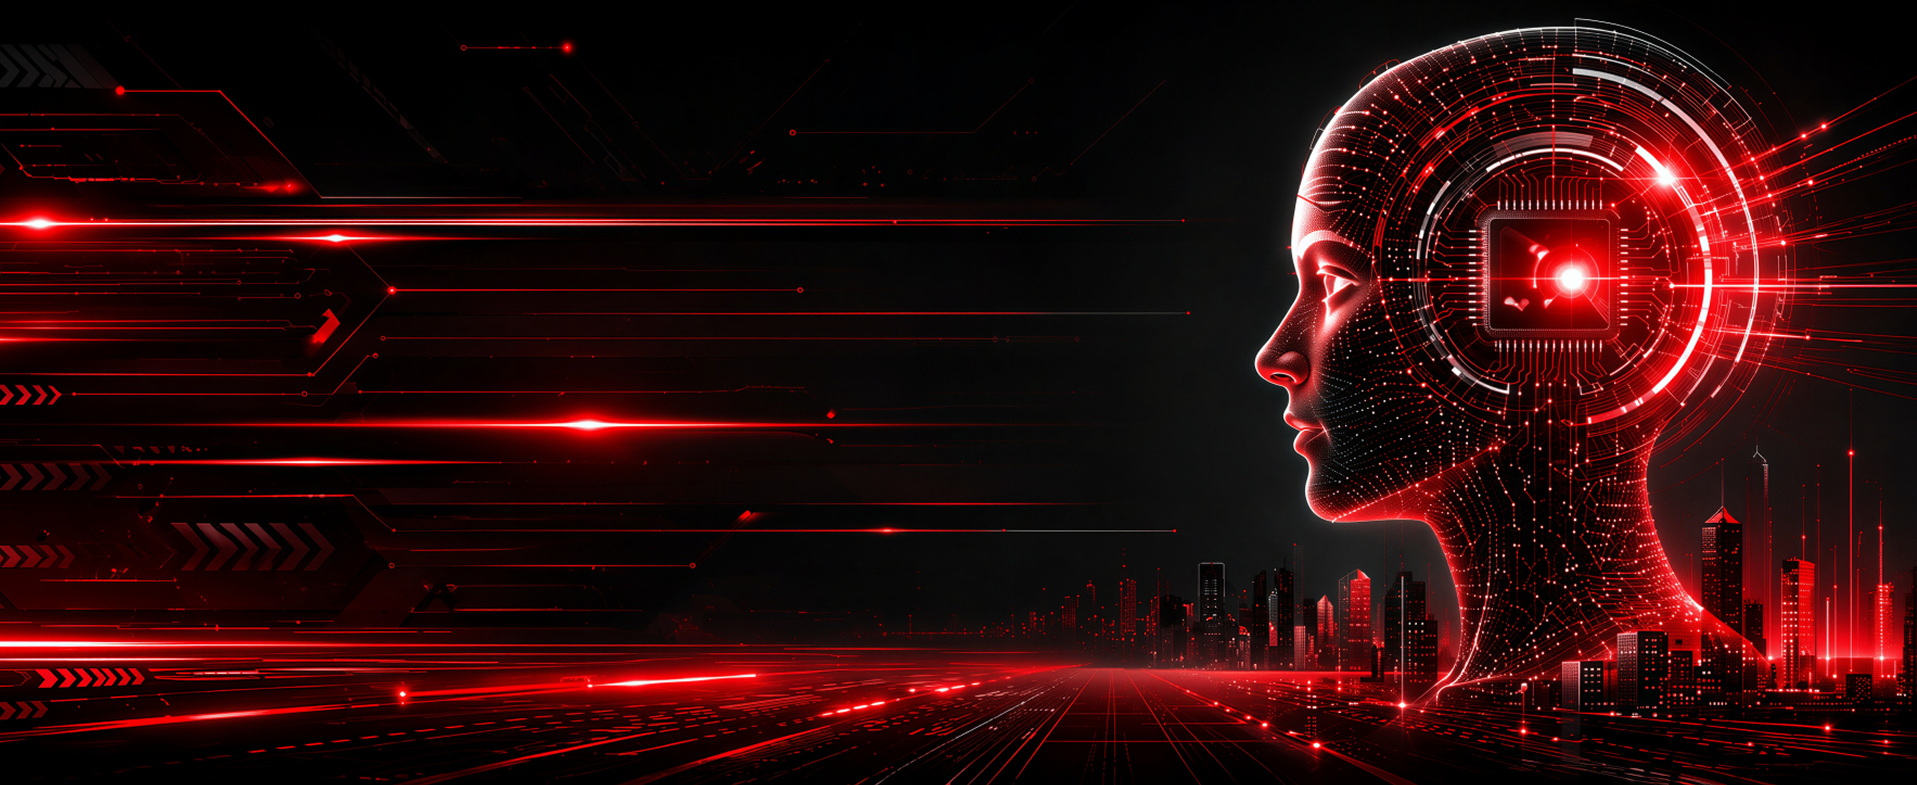
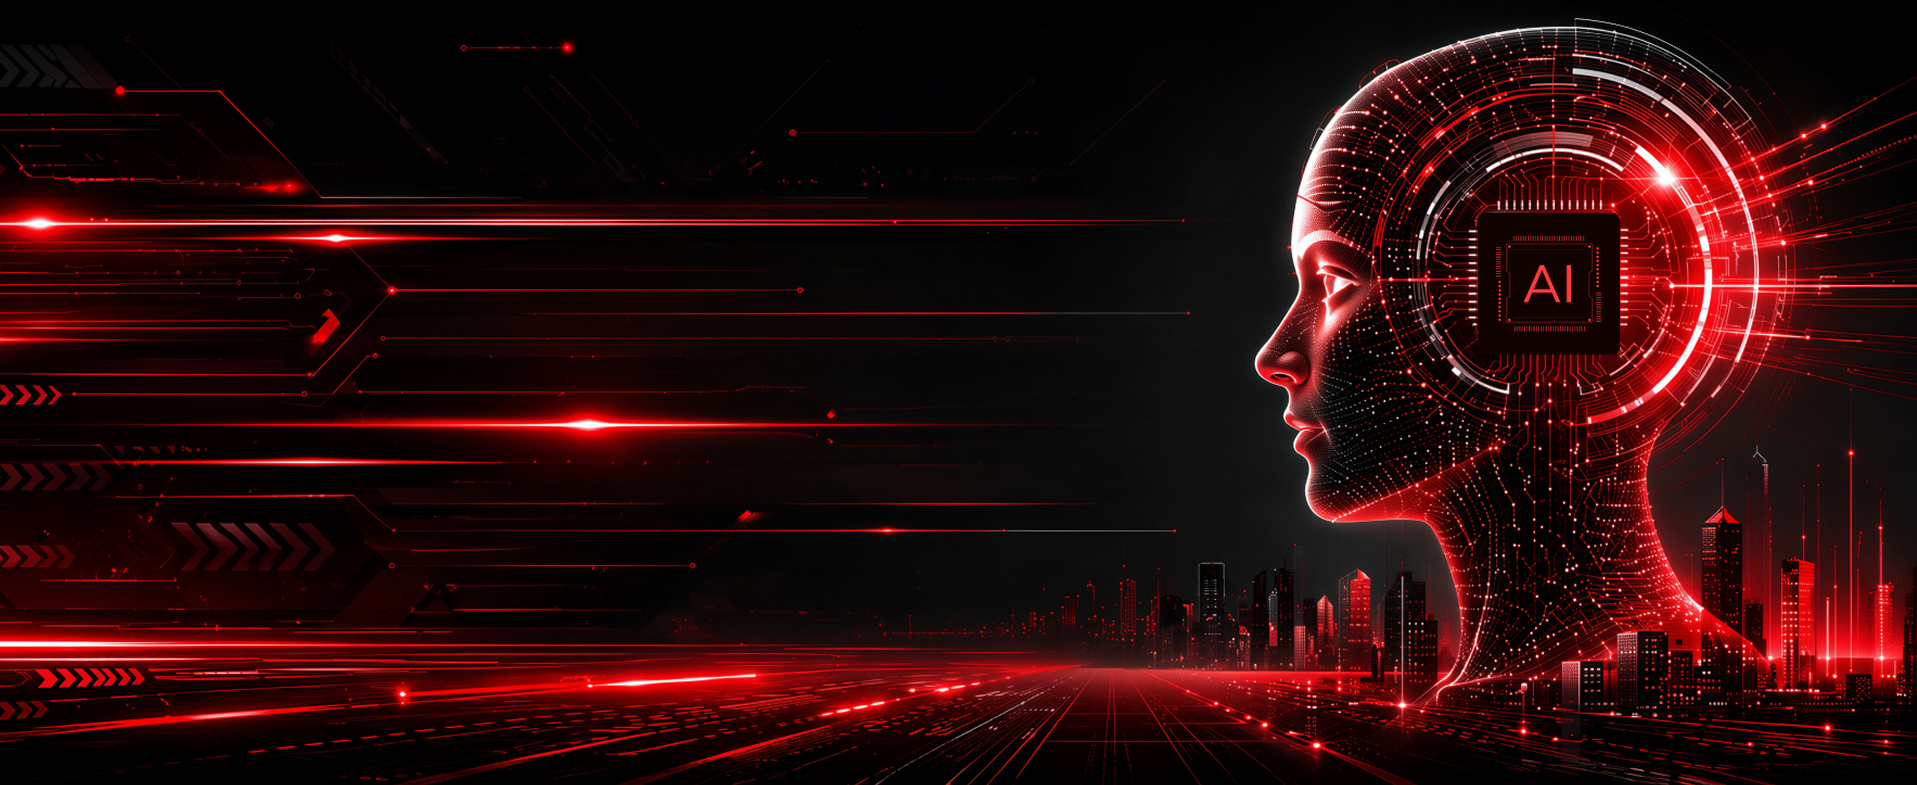
updatee

Changed region(s): [[0.7694, 0.2446, 0.8618, 0.4586]]

diff --git a/css/style.css b/css/style.css
@@ -395,10 +395,13 @@ html {
   letter-spacing: .04em;
 }
 
-/* Wrapper: drop-shadow cast từ alpha chữ ra ngoài, không bleed qua gradient fill */
+/* Wrapper: stack 2 ảnh — 56.png (chrome) làm viền dưới, 57.png (đỏ) đè lên.
+   drop-shadow cast từ alpha ảnh ra ngoài, không bleed qua nền. */
 .hero-ai-border {
   display: inline-block;
-  white-space: nowrap;
+  position: relative;
+  width: 600px;
+  max-width: 100%;
   margin: 6px 0;
   filter:
     drop-shadow(0  2px  8px rgba(195, 195, 195, 0.08))
@@ -406,14 +409,25 @@ html {
     drop-shadow(0 12px 32px rgba( 74,  74,  74, 0.12));
 }
 
-/* "AI WORKFORCE 24/7" — đỏ đồng nhất 1 màu, 1 dòng */
-.hero-title-ai {
-  display: inline;
-  font-size: 80px;
-  font-weight: 900;
-  line-height: 1;
-  white-space: nowrap;
-  color: var(--red);
+/* Lớp dưới: 56.png viền chrome — định kích thước cho cả khối */
+.hero-ai-base {
+  display: block;
+  width: 100%;
+  height: auto;
+}
+
+/* Lớp trên: 57.png đỏ — nhỏ hơn theo đúng tỉ lệ gốc (920/931, 74/86) và
+   căn giữa → lộ đều viền chrome quanh chữ. */
+.hero-ai-fill {
+  position: absolute;
+  top: 50%;
+  left: 50%;
+  width: 98.8%;
+  height: auto;
+  /* Dịch lớp đỏ lên ~5px (theo tỉ lệ) để lộ đều viền chrome ở NỬA DƯỚI mỗi chữ,
+     không bị 57.png che mất rìa dưới của 56.png */
+  transform: translate(-50%, -57%);
+  pointer-events: none;
 }
 
 /* Div text thông tin */
@@ -461,7 +475,7 @@ html {
 
 @media (max-width: 1024px) {
   .hero-title { font-size: 22px; }
-  .hero-title-ai { font-size: 60px; }
+  .hero-ai-border { width: 460px; }
 }
 
 @media (max-width: 767px) {
@@ -478,8 +492,8 @@ html {
 
   .hero-title { font-size: 18px; }
   /* Co giãn theo bề rộng màn hình để "AI WORKFORCE 24/7" luôn vừa 1 dòng,
-     không bị cắt mất "24/7" trên màn nhỏ; tối đa 38px như cũ */
-  .hero-title-ai { font-size: clamp(22px, 9.2vw - 4.5px, 38px); }
+     không bị cắt trên màn nhỏ */
+  .hero-ai-border { width: clamp(240px, 78vw, 440px); }
 }
 
 
@@ -655,6 +669,12 @@ html {
 .pain-card-bottom {
   width: 100%;
   margin-top: auto;              /* dính đáy card */
+  /* Cố định chiều cao dải mô tả để 4 card đồng đều (card 2 mô tả ngắn
+     không còn để hở khoảng trắng) + căn chữ giữa dải */
+  min-height: 96px;
+  display: flex;
+  align-items: center;
+  justify-content: center;
   padding: 14px 18px 18px;
   background: #000000;           /* mặc định: đáy đen */
   transition: background 0.3s ease;
@@ -1819,6 +1839,13 @@ section.cert-section {
 
 /* Xuống dòng riêng theo từng breakpoint: .cert-br-m chỉ mobile, .cert-br-d chỉ desktop */
 .cert-br-m { display: none; }
+
+/* Desktop: card 2 (Stevie) dịch icon ranking sang phải 10px */
+@media (min-width: 1025px) {
+  .cert-grid .cert-card:nth-child(2) .cert-card-icon-wrap {
+    margin-left: 10px;
+  }
+}
 
 /* Below the fixed-size layout: let cards become fluid */
 @media (max-width: 1320px) {

diff --git a/index.html b/index.html
@@ -17,7 +17,7 @@
   <link href="https://fonts.googleapis.com/css2?family=Barlow:wght@400;500;700&family=Inter:wght@400;500;600;700&display=optional" rel="stylesheet">
 
   <link rel="stylesheet" href="css/reset.css?v=2">
-  <link rel="stylesheet" href="css/style.css?v=93">
+  <link rel="stylesheet" href="css/style.css?v=96">
 </head>
 <body>
 
@@ -66,7 +66,7 @@
               </a>
             </li>
             <li>
-              <a href="#lien-he" class="nav-link">
+              <a href="#cta-form" class="nav-link">
                 Liên hệ
                 <svg class="nav-chevron" viewBox="0 0 12 12" fill="none" aria-hidden="true"><path d="M2 4l4 4 4-4" stroke="currentColor" stroke-width="1.5" stroke-linecap="round" stroke-linejoin="round"/></svg>
               </a>
@@ -107,7 +107,7 @@
         <li><a href="#vagent" class="nav-mobile-link">vAgents</a></li>
         <li><a href="#ung-dung" class="nav-mobile-link">Ứng dụng</a></li>
         <li><a href="#case-study" class="nav-mobile-link">Case study</a></li>
-        <li><a href="#lien-he" class="nav-mobile-link">Liên hệ</a></li>
+        <li><a href="#cta-form" class="nav-mobile-link">Liên hệ</a></li>
         <li><a href="https://viettelsoftware.com/" class="nav-mobile-link nav-mobile-login" target="_blank" rel="noopener noreferrer">Về Viettel Software</a></li>
       </ul>
     </div>
@@ -119,7 +119,7 @@
     <section class="hero-section" id="hero" aria-label="Hero">
 
       <!-- Layer 0: nền full-width -->
-      <img src="images/Rectangle.png" alt="" class="hero-bg" aria-hidden="true">
+      <img src="images/Rectangle.png?v=3" alt="" class="hero-bg" aria-hidden="true">
 
       <!-- Layer 1b: Rectangle1 bên trái, đè lên bg, dưới text -->
       <img src="images/Rectangle1.png" alt="" class="hero-rect1" aria-hidden="true">
@@ -133,7 +133,10 @@
           <!-- Heading -->
           <h1 class="hero-title">
             XÂY DỰNG ĐỘI NGŨ<br>
-            <span class="hero-ai-border"><span class="hero-title-ai">AI WORKFORCE 24/7</span></span><br>
+            <span class="hero-ai-border">
+              <img class="hero-ai-base" src="images/56.png" alt="AI WORKFORCE 24/7" width="931" height="86">
+              <img class="hero-ai-fill" src="images/57.png" alt="" aria-hidden="true" width="920" height="74">
+            </span><br>
             CHO DOANH NGHIỆP
           </h1>
 
@@ -710,7 +713,7 @@
             <!-- Slide 4: Customer Service -->
             <div class="casestudy-slide">
               <div class="casestudy-slide-left">
-                <p class="casestudy-slide-subtitle">AI Finance Operations: Quality Assurance (QA)</p>
+                <p class="casestudy-slide-subtitle">AI Operations: Quality Assurance (QA)</p>
                 <div class="casestudy-tables">
                   <div class="transform-table transform-table--traditional">
                     <div class="transform-table-header">BEFORE</div>
@@ -832,7 +835,7 @@
           <article class="cert-card" style="background-image:url('images/48.png')">
             <div class="cert-card-body">
               <span class="cert-card-icon-wrap"><img class="cert-card-icon" src="images/Ranking.png" alt="" aria-hidden="true" loading="lazy"></span>
-              <h3 class="cert-card-title">Giải thưởng chuyển đổi số <br class="cert-br-m">Việt Nam</h3>
+              <h3 class="cert-card-title">Giải thưởng chuyển đổi số <br>Việt Nam</h3>
               <ul class="cert-card-list cert-card-list--nowrap">
                 <li>Vinh danh tại Giải thưởng Chuyển đổi số<br class="cert-br-m"> Việt Nam 2025<br class="cert-br-d"> với Dịch vụ phát triển phần<br class="cert-br-m"> mềm quy mô lớn</li>
               </ul>